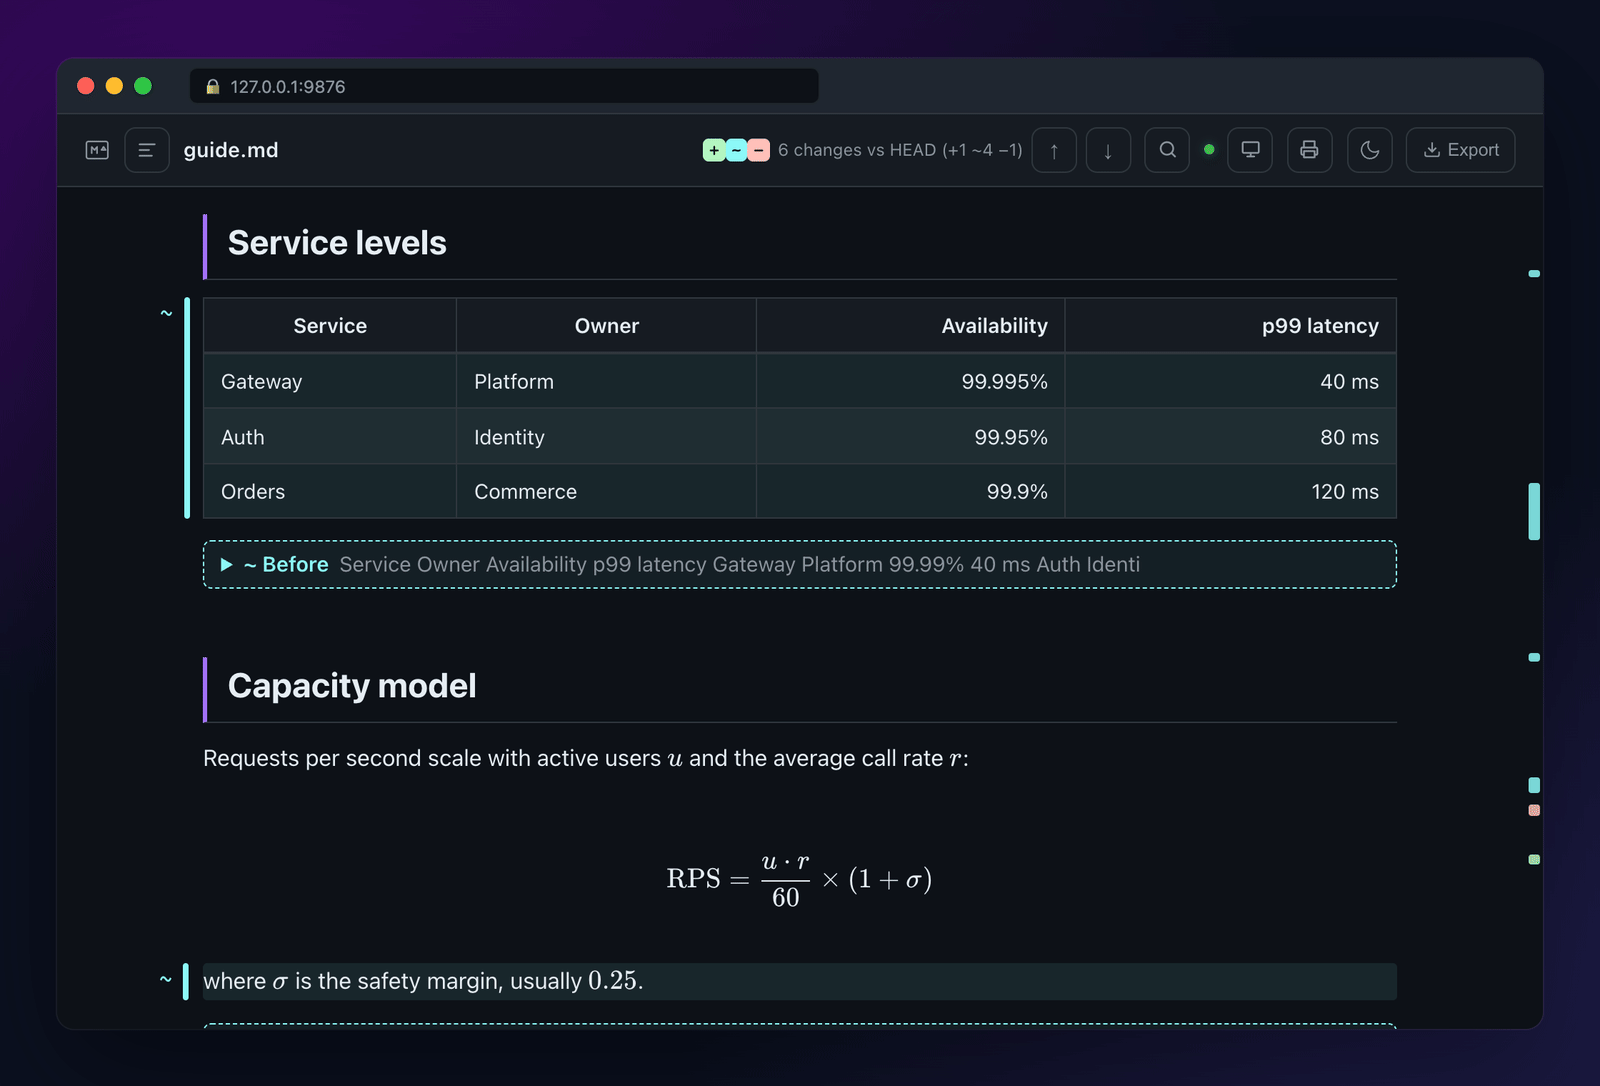
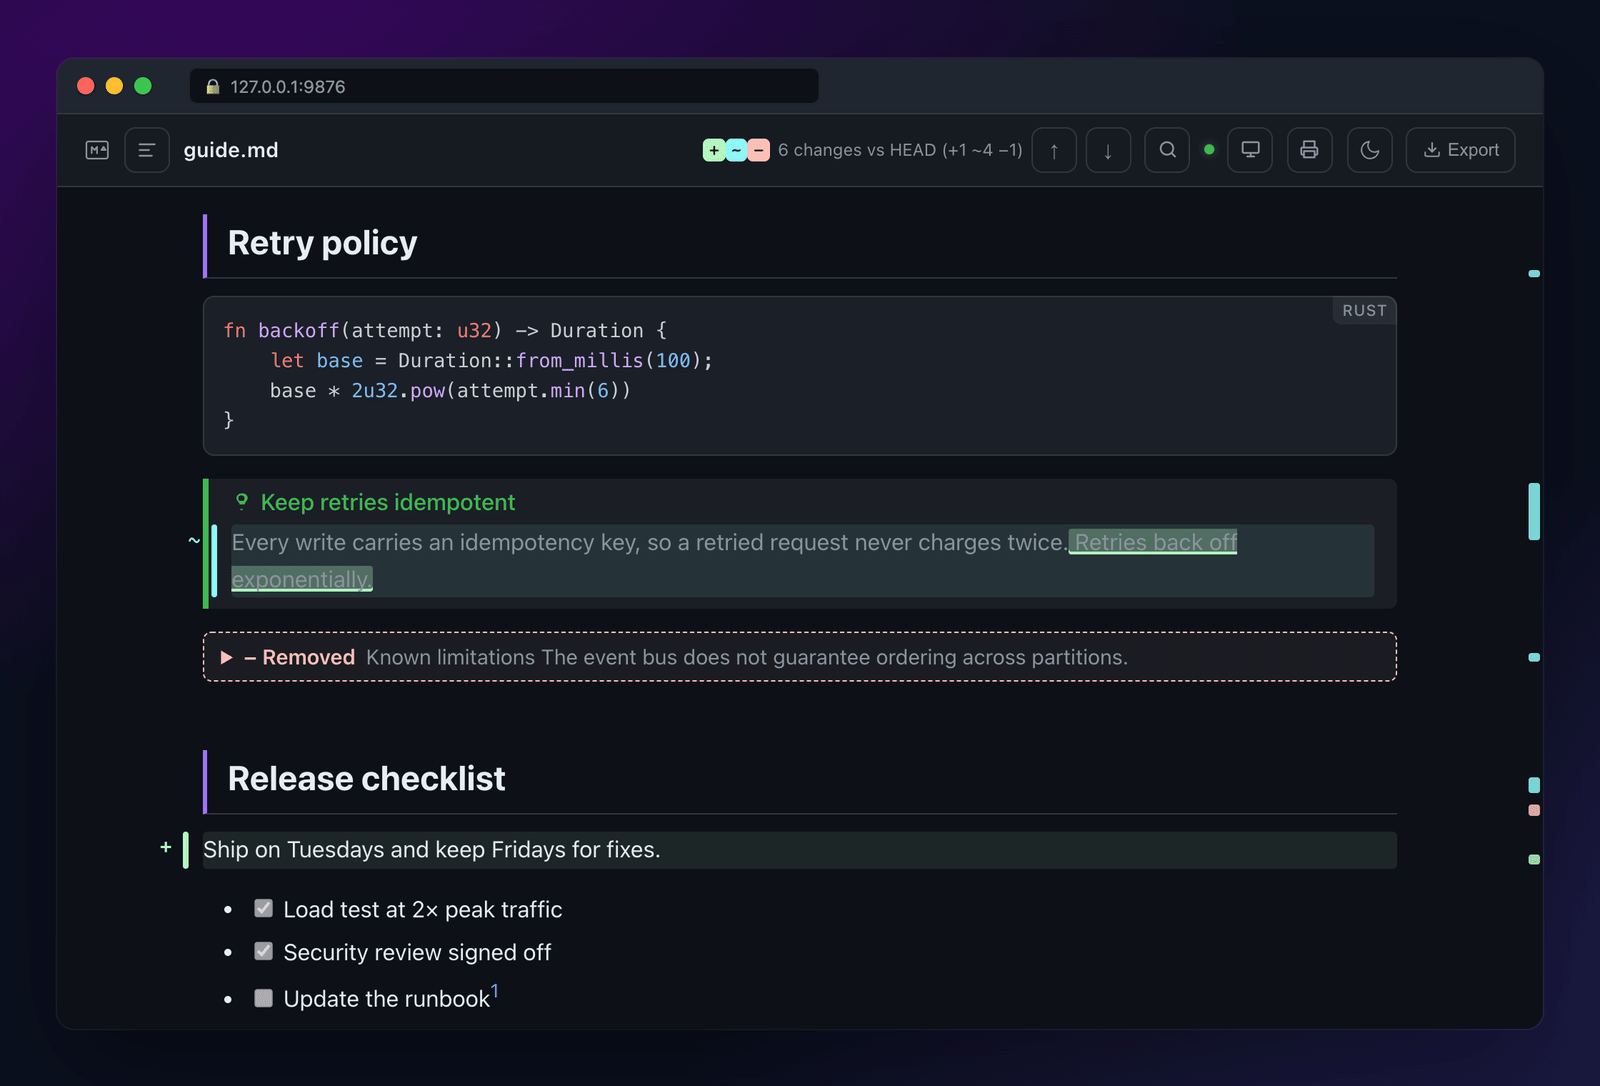
docs: show inline word diff, a removed block and an added paragraph in the diff screenshot

diff --git a/README.md b/README.md
@@ -118,7 +118,7 @@ Mermaid diagrams, KaTeX math and syntax highlighting for 190 languages are built
 
 <picture>
   <source media="(prefers-color-scheme: dark)" srcset="docs/media/diff-dark.png">
-  <img alt="Word-level diff of a document against Git HEAD" src="docs/media/diff-light.png">
+  <img alt="Word-level diff: an added sentence underlined, a removed callout and a new paragraph" src="docs/media/diff-light.png">
 </picture>
 
 `:MdPreviewDiff` compares the buffer, unsaved edits included, with `HEAD`, the index or any branch. Changed words are underlined or struck through in place, tables and math show the previous version in a collapsed box, removed paragraphs stay visible, and ↑ / ↓ in the header jump from change to change. The markers beside the scrollbar show where the changes are.
